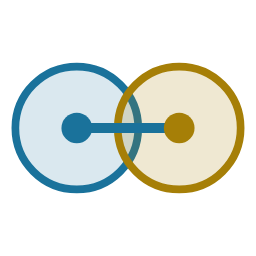
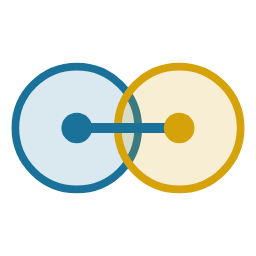
Brand: a brighter gold, and white instead of cream on stickers and badges
The first printed stickers showed the gold sticker (#a67f07 as the field) as khaki-brown and
the gold of the white card as dull: at the lightness that holds 3:1 on white, a gold is an
olive-brown. The logo is a logotype and does not need 3:1, charts do.

- brand/: the mark gold is #d6a20a; the gold sticker is a #f2b705 field with teal and white
  (redesigned); the card, the teal sticker and the large logos are on white, not #f8f7f4.
  DECISIONS.md has the tiers (UI-safe, mark, charts), the surface rule and the reasons.
- plot: Palette.brand's gold slot (and the diverging pair's positive end) is #b58605, the
  most chromatic gold at 3:1 on cream; validated, and it separates better from the brick.
- _assets/images: recolored SVGs, re-rendered PNGs (brand/build-assets.cjs).
- changelog.d/brand-gold.md; the earlier brand entry in CHANGELOG.md names the gold slot.

Claude-Session: https://claude.ai/code/session_014qkyN2Xg6wAA5qNwQY6UaV

Changed region(s): [[0.4375, 0.2188, 0.9688, 0.7812], [0.625, 0.4375, 0.7812, 0.5625]]

diff --git a/brand/DECISIONS.md b/brand/DECISIONS.md
@@ -14,21 +14,26 @@ favicon scale with bolded strokes and no redraw — the one property that elimin
 (see "Rejected," below).
 
 **Color base: Teal & Gold** (2026-10-23; was Slate & Gold, see "Revision" below). Two-tier palette, deliberately: a
-"UI-safe" tier tuned for text/functional-element contrast, and a brighter "brand-mark" tier for the logo graphic and
-wordmark specifically, which only needs to clear WCAG's 3:1 non-text threshold, not 4.5:1. These are related (same
-hue, different lightness/saturation), not two unrelated colors — but they ARE two different hex values, and that
-distinction has to survive into `_layouts/main.html` and any future palette doc, or the two tiers will drift back
-together the first time someone "simplifies" it.
+"UI-safe" tier tuned for text/functional-element contrast (4.5:1), and a brighter "brand-mark" tier for the logo
+graphic and wordmark specifically, which is a logotype and so exempt from contrast minimums (the teal mark clears 3:1
+anyway; the gold mark deliberately does not, see the 2026-10-28 revision). A third tier is for charts, where marks
+need 3:1 on their surface. These are related (same hue, different lightness/saturation), not unrelated colors — but
+they ARE different hex values, and that distinction has to survive into `_layouts/main.html`, `plot/Color.scala` and
+any future palette doc, or the tiers will drift back together the first time someone "simplifies" them.
 
-| Role | UI-safe (site theme, text/links) | Brand-mark (logo, wordmark) |
-|---|---|---|
-| Teal, light | `#205976` | `#1a729b` |
-| Teal, dark | `#81bde0` | `#81bde0` (one value: dark mode needs no separate brightening) |
-| Gold, light | `#866504` | `#a67f07` |
-| Gold, dark | `#f0c647` | `#f0c647` (unchanged — see darkening note below) |
+| Role | UI-safe (site theme, text/links) | Brand-mark (logo, wordmark) | Charts (`Palette.brand`, `fam_colors`) |
+|---|---|---|---|
+| Teal, light | `#205976` | `#1a729b` | `#1a729b` |
+| Teal, dark | `#81bde0` | `#81bde0` (one value: dark mode needs no separate brightening) | `#4aa0c7` |
+| Gold, light | `#866504` | `#d6a20a` | `#b58605` |
+| Gold, dark | `#f0c647` | `#f0c647` (see darkening note below) | `#b98e1b` |
 
-Surfaces: cream `#f8f7f4` (light), blue-black `#161b1e` (dark). Contrast on them: UI teal 7.1:1 on cream, dark teal
-8.5:1 on `#161b1e`, mark teal 5.0:1 on cream and 3.2:1 on `#161b1e` (the dark mark is `#81bde0`, not this).
+Solid gold field (the gold sticker): `#f2b705`.
+
+Surfaces: white `#ffffff` for everything printed or published (stickers, badges, PNG icons, papers, benchmark
+graphs, `Palette.print`), cream `#f8f7f4` only for the docs site and the live viewer's page, blue-black `#161b1e` for
+dark mode. Contrast: UI teal 7.6:1 on white (7.1:1 on cream), dark teal 8.5:1 on `#161b1e`, mark teal 5.3:1 on white
+(5.0:1 on cream), chart gold 3.3:1 on white (3.07:1 on cream).
 
 **Revision, Slate → Teal (2026-10-23, project lead)**: the slate brand-mark `#456f87` has OKLCH chroma 0.06, below the
 0.10 floor of the data-viz palette checks, so it read as gray next to the chart colors and could not be a slot of a
@@ -37,6 +42,22 @@ slate's hue (OKLCH 234.6°) and lightness (0.52) and raises chroma to 0.10: `#1a
 to 0.0997 after rounding to hex and fails the floor). The other tiers are the same hue at the old tiers' lightness:
 UI-safe L 0.44 / C 0.075, dark L 0.77 / C 0.08. Gold is unchanged. Superseded slate values: `#456f87` (mark), `#3c5a6b`
 (UI-safe), `#8fb4c7` (dark).
+
+**Revision, brighter gold, white not cream (2026-10-28, project lead)**: the first printed stickers (the three square
+badges, still in the slate palette) showed two problems. The gold sticker, `#a67f07` as the field, printed khaki-brown,
+and the gold of the white card was dull. `#a67f07` (OKLCH L 0.62, C 0.125) is about as chromatic as a gold can be in sRGB
+at a lightness that holds 3:1 on white: gold at that lightness is the olive-brown that printed, so punch and 3:1 pull
+apart. Decisions:
+- the brand-mark gold is `#d6a20a` (L 0.74, C 0.150, hue 85°, 2.33:1 on white): same hue family, a gold that reads as
+  gold. A logotype is exempt from contrast minimums, and the teal beside it carries the mark's edges;
+- the gold sticker's field is `#f2b705`, with UI-safe teal `#205976` (4.2:1 on the field) for the wordmark, the left ball
+  and the line, and white for the "4" and the right ball (1.8:1: accepted, large bold shapes against a field, checked by
+  rendering). The earlier recipe (a darker partner on a mid gold) is gone with the brown;
+- charts keep 3:1 on their surface, so the chart gold is `#b58605` (the most chromatic gold at 3.07:1 on cream, 3.3:1
+  on white), up from `#a68018`, and it separates better from the brick (worst color-vision ΔE 8.5 to 11.7). It is the
+  gold of `Palette.brand` and of `b` in `fam_colors`;
+- white replaces cream wherever something is printed or published: the white card's background and the teal sticker's
+  whites were cream `#f8f7f4`. Cream stays the docs site's and the live viewer's page color.
 
 **Gold, dark, darkened from `#f3d068` to `#f0c647`**: the original value read visibly thinner/paler than the
 light-mode gold (`#866504` on cream) when compared directly — light and dark golds are meant to differ in
@@ -78,24 +99,19 @@ loaded from Google Fonts). Chosen over Space Mono; the "shares a foundry with Sp
 Mono didn't hold up since Space Grotesk isn't used as body/heading type anywhere near this wordmark.
 
 **Square badge: three live variants**, not one, because they serve different jobs:
-- `badge-lowercase.svg` — light card, icon-dominant, text at real size below. For contexts where the badge is
+- `badge-lowercase.svg` — white card, icon-dominant, text at real size below. For contexts where the badge is
   the whole artifact (README avatar, social preview) and needs to stand alone at a readable size.
-- `badge-sticker-teal.svg` — full-bleed brand-mark teal background, inverted (cream + dark-mode gold) mark and text.
+- `badge-sticker-teal.svg` — full-bleed brand-mark teal background, inverted (white + dark-mode gold) mark and text.
   For print/stickers specifically: a light-background square, however tightly cropped, still reads as "logo on
   a white card" once printed and die-cut. Full-bleed color removes that problem outright, and costs nothing new
   — it's the already-approved dark-mode palette applied to a solid field instead of a dark background.
-- `badge-sticker-gold.svg` — full-bleed brand-mark gold (`#a67f07`) background. The teal sticker's trick (reuse
-  an already-approved palette pair on a solid field) does NOT transfer to gold: darkening gold enough to get a
-  legible partner color makes it read as brown/olive, not gold — yellow-family hues collapse into a different
-  color name at much higher lightness than blue-family hues do, verified by rendering candidates rather than
-  assumed. Lightening the partner color the other way collapses it into the mark's own cream well before it
-  clears contrast against the gold field. What actually works: UI-safe teal (`#205976`) for the
-  wordmark/primary ball/connecting line, cream (`#f8f7f4`, unchanged) for the "4"/accent ball — zero new colors.
-  **Accepted exception**: `#205976` on `#a67f07` measures 2.06:1, under this system's own 3:1 brand-mark floor;
-  kept anyway because the hue separation (cool teal vs. warm gold) carries it at logo weight/scale — confirmed
-  by rendering side by side with `badge-sticker-teal.svg`, not by contrast ratio alone. A darker same-hue slate
-  (`#253741`, 3.33:1, tried in the slate palette) was tried first and rejected: it clears the number but reads as
-  disconnected from the rest of the palette, which is the thing this whole two-tier system exists to avoid.
+- `badge-sticker-gold.svg` — full-bleed gold (`#f2b705`) background. The teal sticker's trick (reuse an
+  already-approved palette pair on a solid field) does NOT transfer to gold: the first print used the mid gold
+  `#a67f07` as the field and came out khaki-brown, because darkening gold enough to hold a partner color turns it
+  olive. A bright field and a dark partner works: UI-safe teal (`#205976`) for the wordmark, left ball and connecting
+  line, white for the "4" and the right ball, white lenses in both balls. Rendered next to the other two before it was
+  chosen; a thin teal outline on the white "4" was tried and rejected (it reads as a double edge).
+  **Accepted exception**: white on `#f2b705` measures 1.8:1; the "4" is 56 units of bold monospace on a 192 field.
 
 **Print caveat, stated plainly**: these SVGs use live `<text>` styled with `font-family: 'JetBrains Mono'`, which
 renders correctly in a browser (where the Google Fonts stylesheet is loaded) but will NOT render correctly in
@@ -150,12 +166,14 @@ looks right, and a botched auto-outline is worse than an honest gap.
 ## Colors outside the site
 
 - The plot defaults (`Palette.brand`, the live viewer's accent) use the same teal and gold, stepped for charts: light
-  series 0 is the brand-mark teal `#1a729b`, secondary ink the UI-safe `#205976`, dark secondary ink `#81bde0`.
+  series 0 is the brand-mark teal `#1a729b`, series 1 the chart gold `#b58605`, secondary ink the UI-safe `#205976`,
+  dark secondary ink `#81bde0`. `Palette.brand`'s light surface is still the cream; a figure for a paper is
+  `Palette.print` or `Palette.brand.withSurface("#ffffff")`.
 - Benchmark graphs color tool families with `fam_colors`; `a` is tda4j (brand teal) and `b` is tda4j-js (brand gold).
-  Light (white background; every pair at least 9.5 ΔE under protanopia/deuteranopia and 15.9 normally, 3:1 contrast):
+  Light (white background; every pair at least 8.7 ΔE under protanopia/deuteranopia and 16.7 normally, 3:1 contrast):
 
   ```r
-  fam_colors = c(a = "#1a729b", b = "#a67f07", c = "#4b8efe", d = "#0c9e71", e = "#8443d3", f = "#b63039", g = "#c27cba")
+  fam_colors = c(a = "#1a729b", b = "#b58605", c = "#4b8efe", d = "#0c9e71", e = "#8443d3", f = "#b63039", g = "#c27cba")
   ```
 
   Dark (surface `#161b1e`, lightness band 0.48–0.67 of the dark charts, so `a` and `b` are the charts' dark steps

diff --git a/.claude/WORKLOG-brand-gold.md b/.claude/WORKLOG-brand-gold.md
@@ -1,0 +1,38 @@
+# Brand: brighter gold, white not cream (2026-10-28)
+
+Point-in-time snapshot. After the teal change (`WORKLOG-brand-teal.md`) the first printed stickers arrived (the three
+square badges, still in the slate palette). The project lead: the gold sticker, with the light-mode gold `#a67f07` as its
+field, "looks much too brown"; that gold on a cream card "doesn't look punchy enough"; and cream should not get as much
+use as it does: white on stickers, as on plots for publication. Values and rules: `brand/DECISIONS.md`.
+
+## Why the gold printed brown
+
+`#a67f07` is OKLCH L 0.62, C 0.125, hue 87. At that lightness (the one that holds 3:1 on white) it is about as chromatic
+as sRGB allows: the in-gamut maximum chroma at L 0.66 is 0.134-0.142 over hues 70-85. So a gold that holds 3:1 on white is
+a dark yellow, and dark yellow reads olive-brown, most of all as a printed field. The fix is to stop asking the logo's
+gold to hold 3:1 (a logotype is exempt) and let charts, which need it, keep it.
+
+## Choices (all rendered side by side before being chosen)
+
+- Logo gold on white: candidates `#c79608` (2.69:1), `#d6a20a` (2.33), `#dc9e08`, `#e5ae0d` (2.02), `#f0c647`; `#d6a20a`
+  is the gold that still has the old hue (85°) and clearly reads as gold.
+- Gold sticker field: `#f0c647` looked soft, `#f5c518` lemon, `#f2b705` rich and punchy. Partner colors: UI teal `#205976`
+  (4.2:1), white for the "4" and right ball (1.8:1). A thin teal outline on the white "4" was tried and looked like a double
+  edge. Both balls get a white 0.4 lens: the old teal-tinted fill over gold turned olive.
+- Chart gold: the most chromatic gold that is 3:1 on cream is `#b58605` (3.07; 3.3 on white). `Palette.brand` series 1 and the
+  gold slot of `fam_colors` use it; validated (light, cream, first three slots on all pairs, all eight adjacent; and
+  `fam_colors` on white, all pairs: CVD 8.7, normal 16.7). It also separates from the brick slot better: 8.5 -> 11.7.
+- `#bd8703` / `#c38406` (3.17 on white) would pass on white but are 2.96:1 on cream, so they cannot be the default
+  palette's gold.
+
+## White instead of cream
+
+`badge-lowercase.svg`, `badge-sticker-teal.svg`, `large-logo*.svg` use `#ffffff` where they used `#f8f7f4`. Not changed, and
+named in `DECISIONS.md`: the docs site's `--background-default`, the live viewer's page, and `Palette.brand`'s light surface
+(cream). `PlotGrammarSpec` pins that `Palette.print` is white and not the brand's surface, so flipping the default surface is
+a decision of its own (#253), not a side effect of this one.
+
+## Not verified
+
+Print: nothing here was printed. The text of the badges is still live `<text>` (outline it before sending to a printer,
+as `DECISIONS.md` says).

diff --git a/CHANGELOG.md b/CHANGELOG.md
@@ -283,8 +283,8 @@ Entries since the last release that are not listed below are the files of [`chan
   `vr`, `cech` and `alpha`, with the alpha backend and parameters the result used. Past the result's
   `maxFiltrationValue` the plot stops there and says so (#76).
 - The brand is Teal & Gold (was Slate & Gold): the teal is `#1a729b` (`#81bde0` in dark mode). The default plot palette
-  (`Palette.brand`) and the live viewer follow: degree 0 is `#1a729b` in light mode and the secondary ink is teal; the
-  other slots are as they were.
+  (`Palette.brand`) and the live viewer follow: degree 0 is `#1a729b` and degree 1 (gold) is `#b58605` in light mode, and the secondary ink is
+  teal; the other slots are as they were.
 - `BarcodeDistance.bottleneckDistance` no longer builds the all-pairs cost matrix: near pairs are found in a window of
   the other diagram sorted by birth, and feasibility is two matchings (one covering the bars too far from the diagonal on
   each side). The values are the same; two random diagrams of 1,500 bars took 22 s and take 0.2 s.

diff --git a/changelog.d/brand-gold.md b/changelog.d/brand-gold.md
@@ -1,0 +1,5 @@
+### Build, CI and Documentation
+
+- The logo, icons and badges use a brighter gold, `#d6a20a` (was `#a67f07`, which printed khaki-brown on the first
+  stickers). The gold sticker is a bright gold field (`#f2b705`) with teal and white. Stickers, badges and the logo are on
+  white, not the docs site's cream. `brand/DECISIONS.md` has the colors of each use, charts included.
